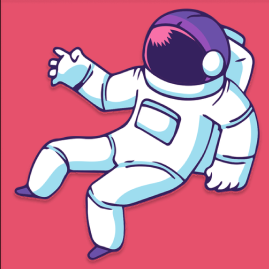
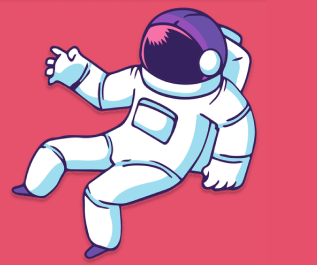
projeto figma pronto

diff --git a/style.css b/style.css
@@ -9,9 +9,9 @@
 
 .cabecalho{
     max-width: 1440px;
-    height: 150px;
+    height: 103px;
     margin: 0 auto;
-    background-color: #3000BA;
+    background-color: #3000bacc;
 }
 .menu{
     display: flex;
@@ -19,7 +19,7 @@
     flex-wrap: wrap;
 }
 .menu a{
-    margin-top: 100px;
+    margin-top: 58px;
     color: white;
     text-decoration: none;
     font-size: 25px;
@@ -49,9 +49,20 @@
     line-height: 60px;
 }
 
+.imagem-do-astronauta{
+    position: absolute;
+    top: 380px;
+    left: 1300px;
+}
+
 footer{
     max-width: 1440px;
-    padding: 50px;
+    padding: 10px;
     margin: 0 auto;
-    background-color:#3000BA;
+    background-color:#3000bacc;
+}
+
+footer .logo{
+    display: block;
+    margin: 0 auto;
 }

diff --git a/index.html b/index.html
@@ -24,12 +24,12 @@
         <section class="section-principal" >
             <h1>GrowKids</h1>
             <h2>Where your little star illuminates a <br> world of possibilities</h2>
-            <div>
-                <img src="" alt="">
+            <div class="imagem-do-astronauta" >
+                <img src="Imagens/Screenshot_1.png" alt="Imagem do astronauta">
             </div>
         </section>
         <footer>
-            <img src="#" alt="LOGO">
+            <img class="logo" src="Imagens/logo.png" alt="LOGO">
         </footer>
     </main>
 </body>
